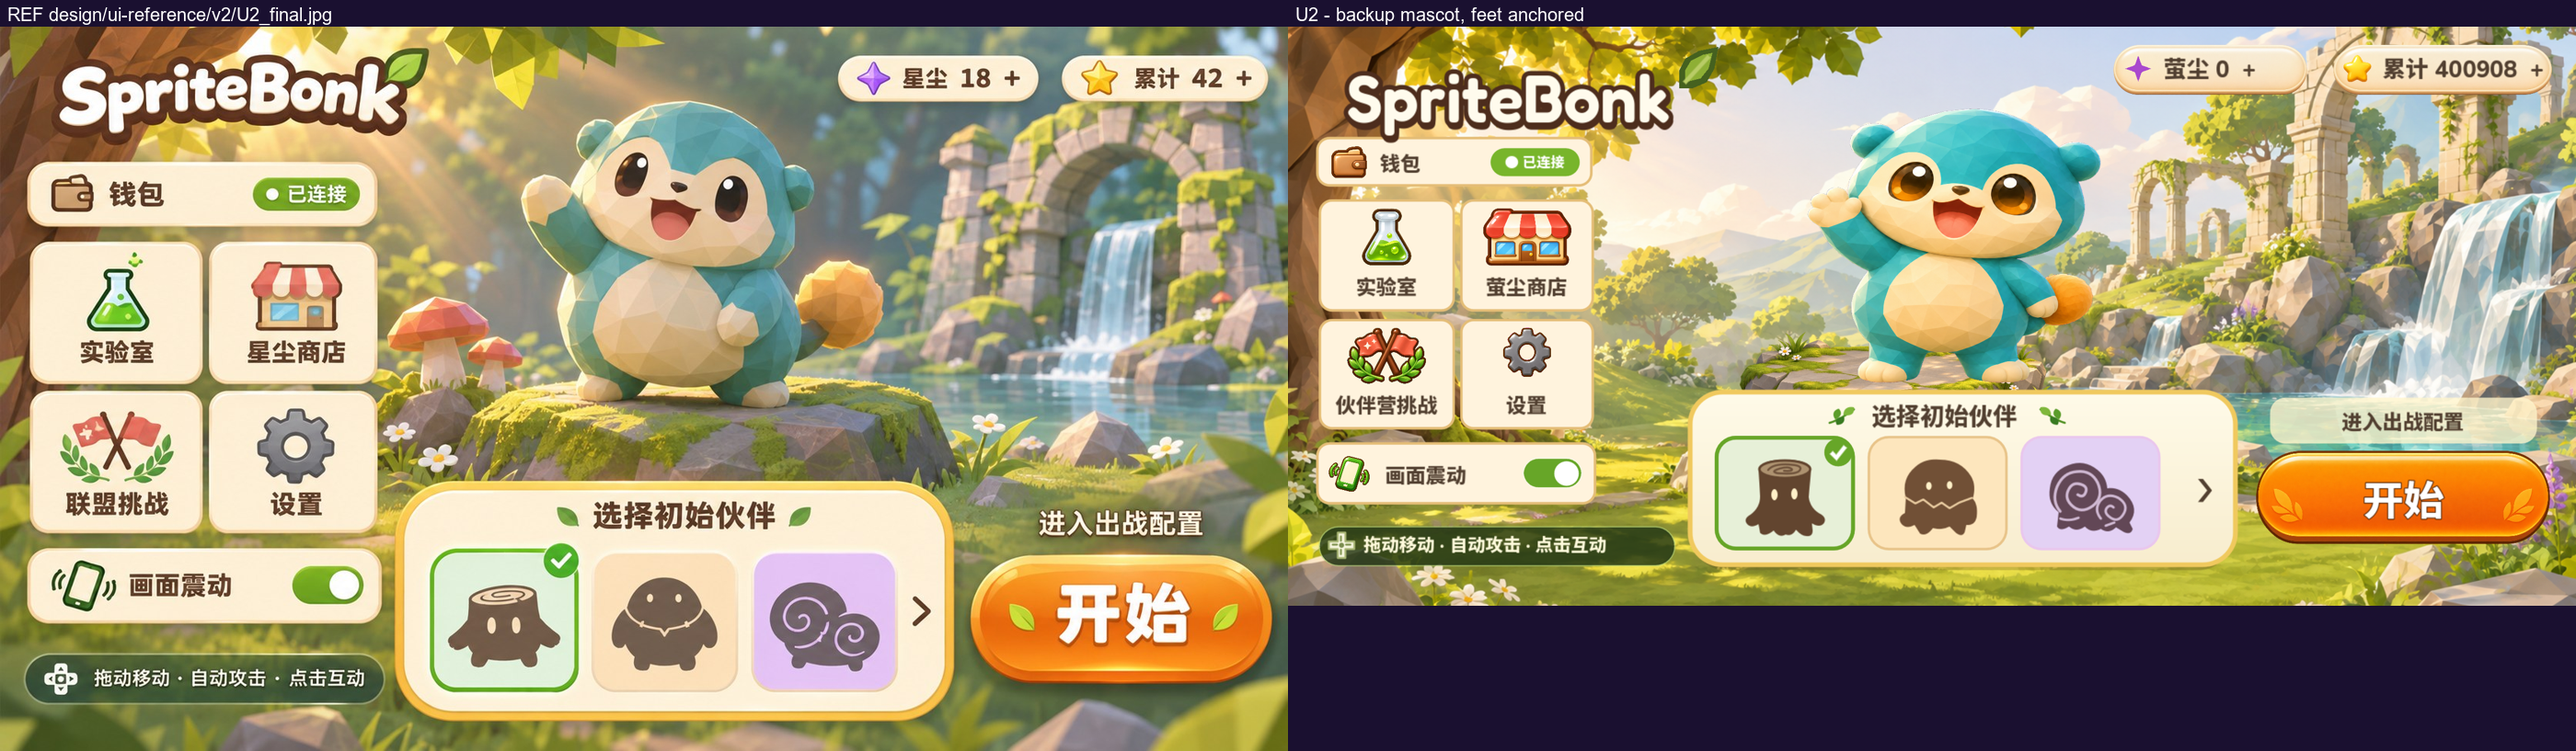
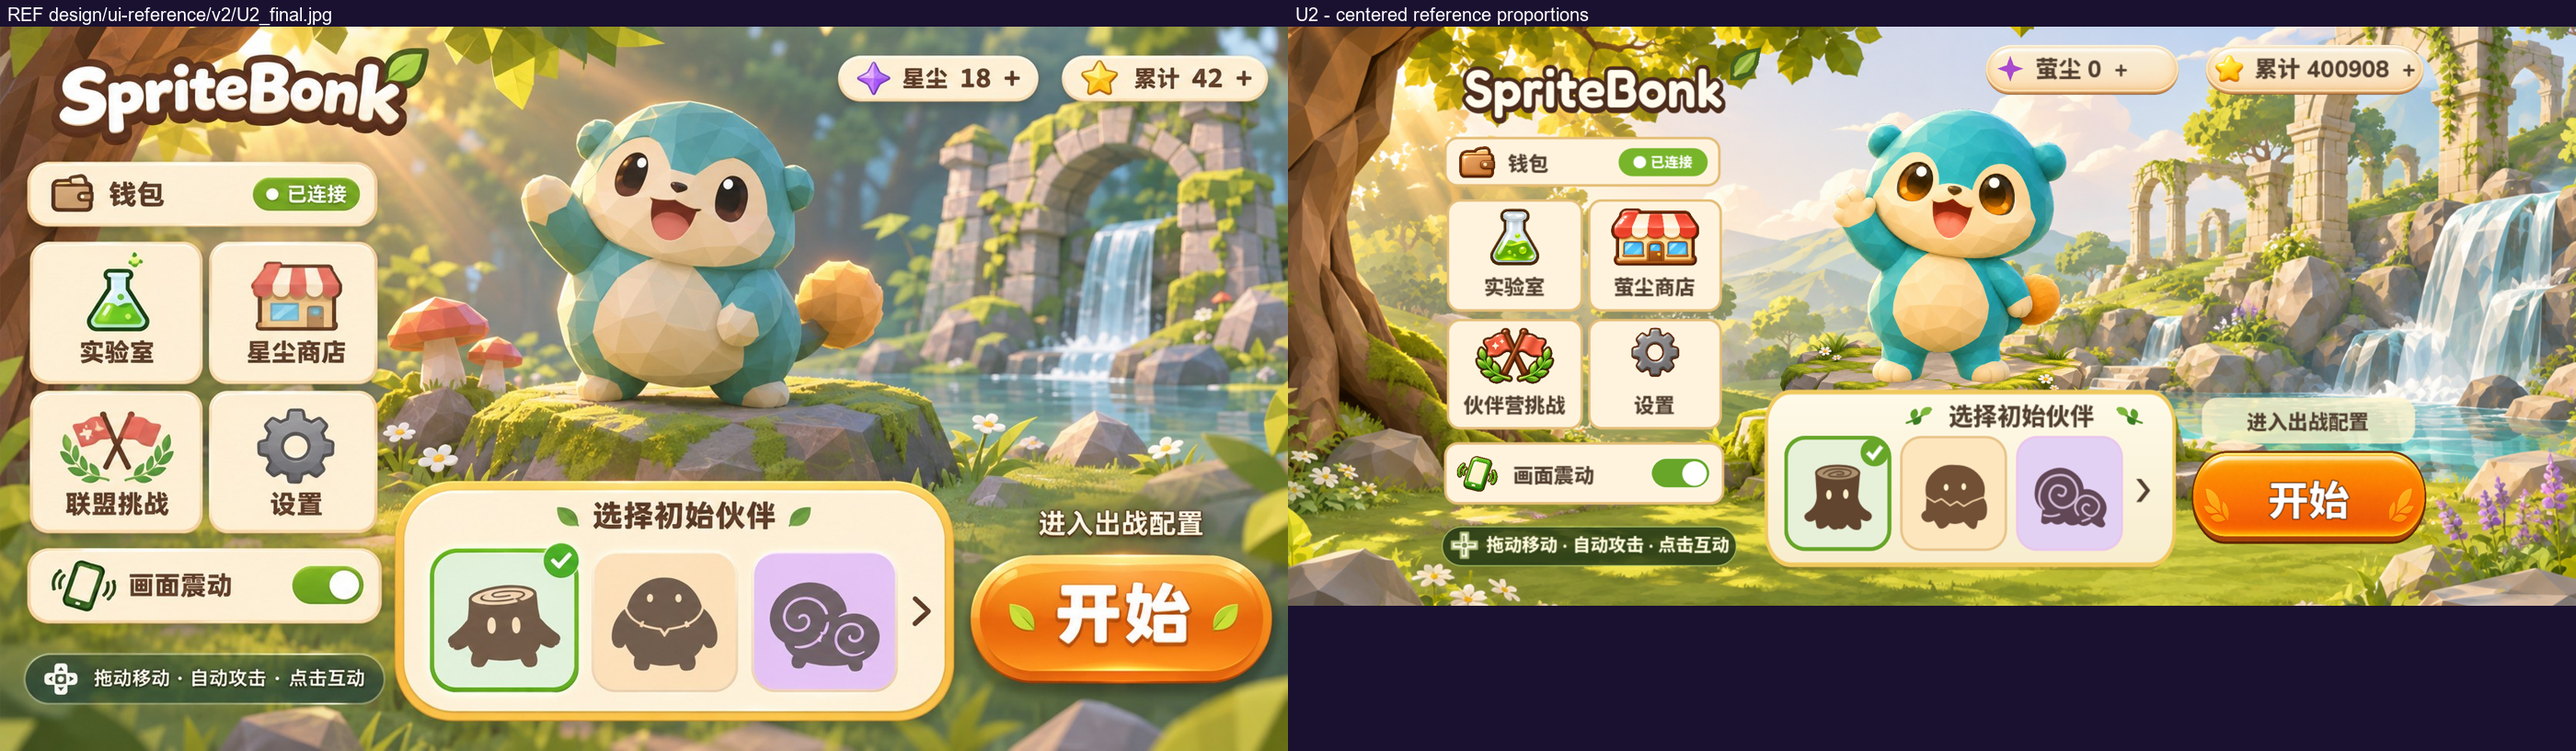
Keep U2 menu reference proportions on ultrawide phones

Changed region(s): [[0.4971, 0.0612, 0.9943, 0.765], [0.5282, 0.0, 0.6214, 0.0306]]

diff --git a/design/ui-alignment-progress.md b/design/ui-alignment-progress.md
@@ -293,3 +293,9 @@ U1 已重开，U3 不得开工（见「关闭门」）。第 9 轮：2340 复验
 - 前两次落脚调整已安装 Seeker，用户再次指出未站稳后直接抓取真机，确认脚底位于石板后沿。`dba5c88` 将角色基准下移至参考 y130，真机更新后双脚位于石板中央表面。
 - 继续核查用户提供的 mascot_v2 备份包，发现奶油色手脚、短尾球的新角色 PNG。按原字节接入 `u2-art-mascot.png`，依据包内 fit_report 的有效区域 (89,91,947,1109) 设 AtlasTexture，并将显示宽高保持其原比例，脚底继续以石板中央落点定位。
 - 双档菜单快检均 **120/0**，2340 后台实拍已目检，双脚落在台面、奶油手脚与短尾球可见。当前角色来自已有交付 PNG，姿态及脸型仍与整屏定稿有可见差异，继续保持 U2 未关闭。
+
+## U2 整屏比例续核
+
+- 用户要求整个界面确认无问题后再进入下一屏。整屏仍有超宽横向拉伸，本轮将手机菜单参考面限制为 1672:941 比例并居中，伙伴卡按托盘等比缩放，消除第三卡被裁及额外滚动条。
+- 固定字体下限使完整操作提示比参考占宽，本轮自行将托盘左缘由参考 x514 调至 x560、宽724调至678，给提示留间隔；此项为施工适配决定，明确留作验收核对。提示底条按文字最小宽度扩展。
+- 首轮比例调整被菜单不相交检查检出提示越界，修正后 `u2-uniform-final` 双档菜单 **120/0**。2340 实拍已目检，三卡完整、图标及文字无裁切，角色脚底落在台面。角色造型、现成图标高光和场景细节仍与定稿有可见差异，U2 继续开放。
